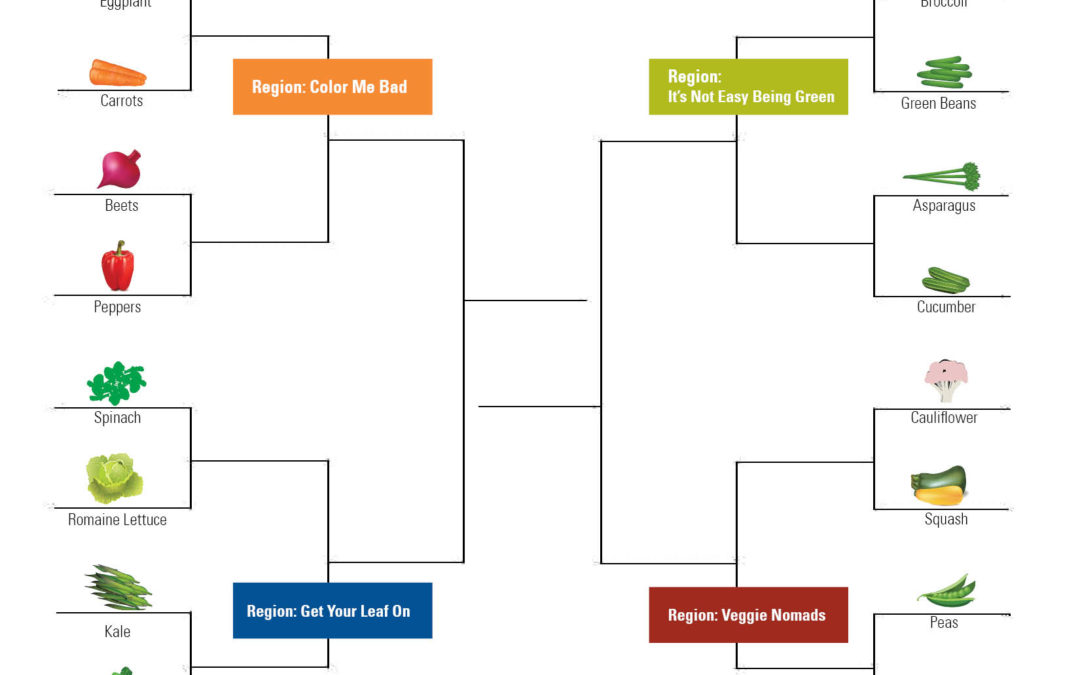
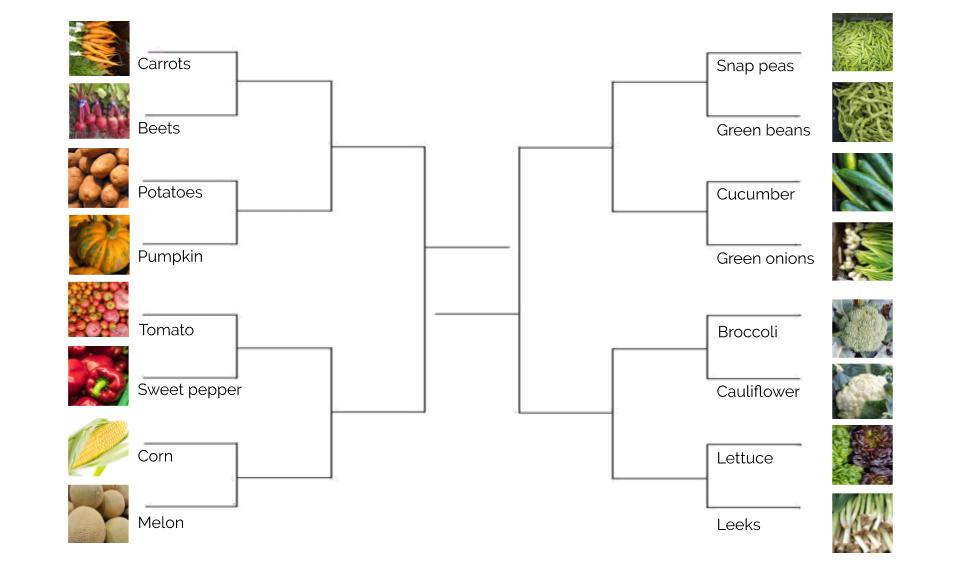
Finalize list of vegetables

Changed region(s): [[0.0606, 0.0, 0.9394, 1.0], [0.0909, 0.9929, 0.1212, 1.0]]

diff --git a/src/app/home/home.component.ts b/src/app/home/home.component.ts
@@ -8,14 +8,14 @@ import { Component, OnInit } from '@angular/core';
 export class HomeComponent implements OnInit {
 
     readonly cards = [
-        {first: 'beets', second: 'bok choy'},
-        {first: 'broccoli', second: 'cabbage'},
-        {first: 'carrots', second: 'corn'},
-        {first: 'cucumber', second: 'green beans'},
-        {first: 'green onions', second: 'kale'},
-        {first: 'lettuce', second: 'onions'},
-        {first: 'potatoes', second: 'snap peas'},
-        {first: 'spinach', second: 'sweet peppers'},
+        {first: 'beets', second: 'carrots'},
+        {first: 'potatoes', second: 'pumpkin'},
+        {first: 'tomatoes', second: 'sweet peppers'},
+        {first: 'melon', second: 'corn'},
+        {first: 'snap peas', second: 'green beans'},
+        {first: 'cucumber', second: 'green onions'},
+        {first: 'broccoli', second: 'cauliflower'},
+        {first: 'lettuce', second: 'leeks'},
     ];
 
     constructor() { }

diff --git a/src/app/prelims/prelims.component.html b/src/app/prelims/prelims.component.html
@@ -15,7 +15,7 @@
     <iframe
         src="https://docs.google.com/forms/d/e/1FAIpQLSfuCfhUZ4WcIpdjfeNqqezJ3uTS4ncyL2gCSp_2RyUtQqqawg/viewform?embedded=true"
         onload="this.width=Math.min(screen.width-24, 600)"
-        height="1600"
+        height="400"
         frameborder="0"
         marginheight="0"
         marginwidth="0">Loading…</iframe>

diff --git a/src/app/home/home.component.css b/src/app/home/home.component.css
@@ -14,7 +14,7 @@
 }
 
 .image img {
-    max-width: 600px;
+    max-width: 800px;
     width: 100%;
 }
 
